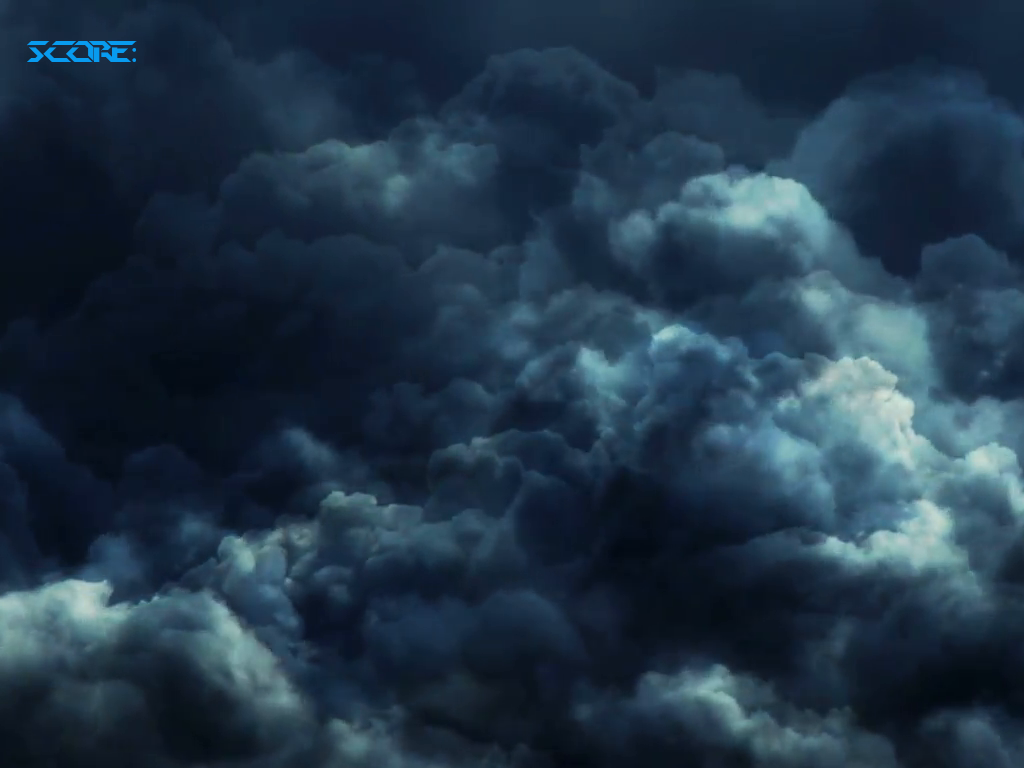
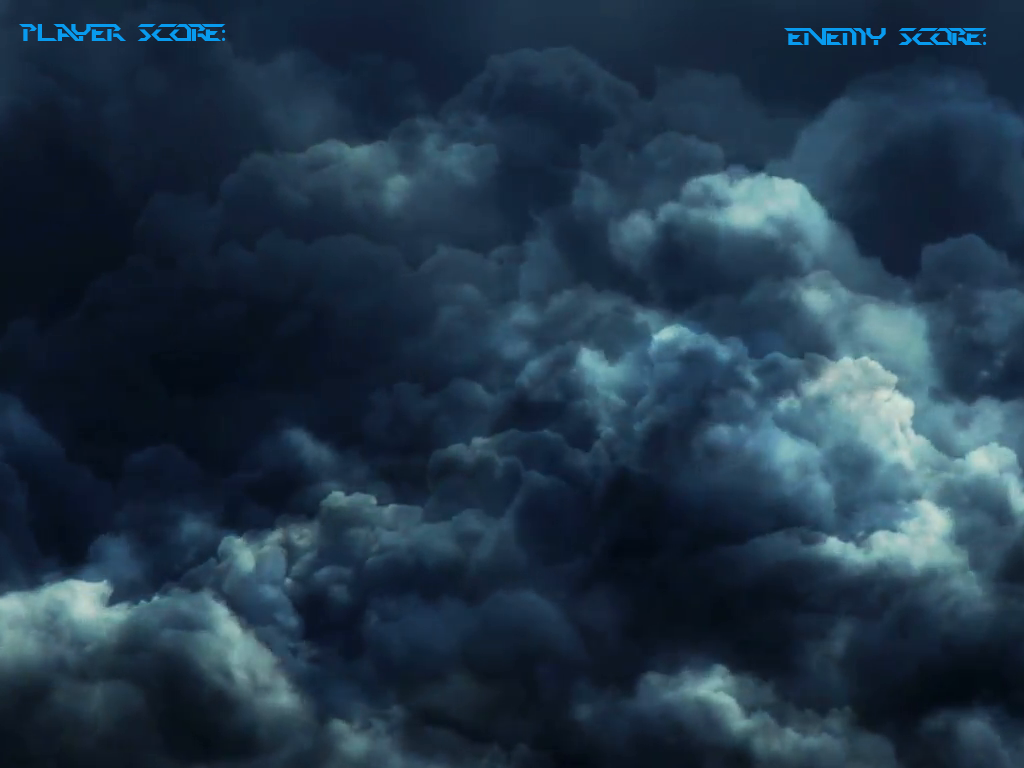
we now have a health bar... and the game returns to menu when health reaches 0.

Changed region(s): [[0.0, 0.0312, 0.2188, 0.0938], [0.75, 0.0312, 0.9688, 0.0625]]

diff --git a/main.py b/main.py
@@ -43,6 +43,7 @@ active_enemies = []
 active_enemy_bullets = []
 active_asteroids = []
 player_score = 0
+enemy_score = 0
 img_scroller_one = 0
 bg_bool = True
 ########################################################################################################################
@@ -73,7 +74,7 @@ gamespace_one_blit = pygame.transform.scale(gamespace_img_one, (512, 768)).conve
 gamespace_two_blit = pygame.transform.scale(gamespace_img_two, (512, 768)).convert()
 gamespace_img_blits = [gamespace_one_blit, gamespace_two_blit]
 
-points_font = pygame.font.Font('fonts/Off The Haze.otf', 35)
+points_font = pygame.font.Font('fonts/Off The Haze.otf', 30)
 ########################################################################################################################
 # Audio
 ########################################################################################################################
@@ -86,7 +87,6 @@ class Enemy:
     def __init__(self, enemy_img):
         self.image = pygame.image.load(enemy_img).convert_alpha()
         self.rect = self.image.get_rect()
-        self.damage = 1
         self.health = 3
         self.min_speed = 1
         self.max_speed = 6
@@ -132,6 +132,7 @@ class EnemyBullet:
         self.velocity_x, self.velocity_y = vector
         self.x_increasing = x_increasing
         self.speed = 8
+        self.damage = 1
 
     def set_location(self, x, y):
         self.x = x
@@ -197,7 +198,7 @@ class Player:
         self.x, self.y = self.location
         self.rect.center = self.location
         self.speed = 8
-        self.hp = 100
+        self.hp = 20
 
     def fire(self, image):
         return Bullet(image, (self.x + (self.rect.width / 2) - 4, self.y - 3*self.rect.height/4))
@@ -235,13 +236,6 @@ class Player:
         self.set_location(self.x + self.speed, self.y + self.speed)
 
 
-########################################################################################################################
-# Instantiate a Player.....
-########################################################################################################################
-player_blue = Player('images/SpaceShooterRedux/PNG/playerShip1_blue.png')
-########################################################################################################################
-
-
 def evaluate_menu_click(event, menu_buttons):  # rectangle's: (top left x, top left y, width, height)
     x, y = event.pos
     for button in menu_buttons:
@@ -252,6 +246,7 @@ def evaluate_menu_click(event, menu_buttons):  # rectangle's: (top left x, top l
 
 def game_menu():
     global player_score
+    global enemy_score
     global display_help
     menu_buttons = []
     clock.tick(5)  # 5 FPS while in Game Menu..
@@ -276,7 +271,7 @@ def game_menu():
                     else:
                         return False
                 elif event.key == pygame.K_RETURN:  # should reset all game values here...
-                    player_score = 0
+                    new_game()
                     return True
                 elif event.key == pygame.K_h:
                     display_help = True
@@ -285,7 +280,7 @@ def game_menu():
                 if button_clicked is not None:
                     index = menu_buttons.index(button_clicked)
                     if index == 0:  # first button starts game, exits menu..
-                        player_score = 0
+                        new_game()
                         return True
 
         screen.blit(menu_bg_blit, (0, 0))
@@ -301,25 +296,45 @@ def game_menu():
     return True
 
 
+def new_game():
+    global player_score, enemy_score, player_blue
+    active_enemy_bullets.clear()
+    active_bullets.clear()
+    active_enemies.clear()
+    player_score = enemy_score = 0
+    player_blue = Player('images/SpaceShooterRedux/PNG/playerShip1_blue.png')
+
+
 def draw_game():  # DISPLAY_HEIGHT = 768, img_scroller_one, img_scroller_two
     global img_scroller_one
     global bg_bool
     global player_score
+    global enemy_score
 
     screen.blit(game_bg_blit, (0, 0))
 
     # Points display..
     points_text = points_font.render(str(player_score), True, WHITE)
     points_text_rect = points_text.get_rect()  # get rect, byoch!
-    points_text_rect.left = 28
-    points_text_rect.top = 60
+    points_text_rect.left = 22
+    points_text_rect.top = 45
     screen.blit(points_text, points_text_rect)
+
+    enemy_points_text = points_font.render(str(enemy_score), True, WHITE)
+    enemy_points_text_rect = enemy_points_text.get_rect()  # get rect, byoch!
+    enemy_points_text_rect.right = 990
+    enemy_points_text_rect.top = 45
+    screen.blit(enemy_points_text, enemy_points_text_rect)
 
     # This is our neverending scrolling background....
     scroller_bg = pygame.Surface((512, 768))
 
     scroller_bg.blit(gamespace_img_blits[not bg_bool], (0, img_scroller_one))
     scroller_bg.blit(gamespace_img_blits[bg_bool], (0, img_scroller_one - DISPLAY_HEIGHT))
+
+    # Display a health bar...
+    if player_blue.hp > 0:
+        pygame.draw.rect(screen, RED, (22, 700, player_blue.hp * 10, 40))
 
     # Our player...
     scroller_bg.blit(player_blue.image, player_blue.location)
@@ -343,12 +358,15 @@ def draw_game():  # DISPLAY_HEIGHT = 768, img_scroller_one, img_scroller_two
         scroller_bg.blit(enemy.image, enemy.next_location())
         if enemy.rect.colliderect(player_blue.rect):
             explosion_player.play()
+            player_blue.hp = 0
 
         # ...that also fire bullets...
         for enemy_bullet in enemy.active_bullets:
             enemy_bullet.next_location()
             if enemy_bullet.rect.colliderect(player_blue.rect):
                 explosion_player.play()
+                enemy_score += 1
+                player_blue.hp -= (enemy_bullet.damage if player_blue.hp >= 1 else 0)
                 if enemy_bullet in enemy.active_bullets:
                     enemy.active_bullets.remove(enemy_bullet)
             scroller_bg.blit(enemy_bullet.image, enemy_bullet.location)
@@ -358,6 +376,8 @@ def draw_game():  # DISPLAY_HEIGHT = 768, img_scroller_one, img_scroller_two
         enemy_bullet.next_location()
         if enemy_bullet.rect.colliderect(player_blue.rect):
             explosion_player.play()
+            enemy_score += 1
+            player_blue.hp -= (enemy_bullet.damage if player_blue.hp >= 1 else 0)
             if enemy_bullet in active_enemy_bullets:
                 active_enemy_bullets.remove(enemy_bullet)
         scroller_bg.blit(enemy_bullet.image, enemy_bullet.location)
@@ -382,6 +402,9 @@ def game_loop():
 
     continue_loop = True  # potentially change until while lines_remaining != nil
     while continue_loop:
+        if player_blue.hp == 0:
+            pygame.mixer.music.stop()
+            continue_loop = False
         keys = pygame.key.get_pressed()
         if keys[pygame.K_UP] or keys[pygame.K_w]:
             if keys[pygame.K_LEFT] or keys[pygame.K_a]:
